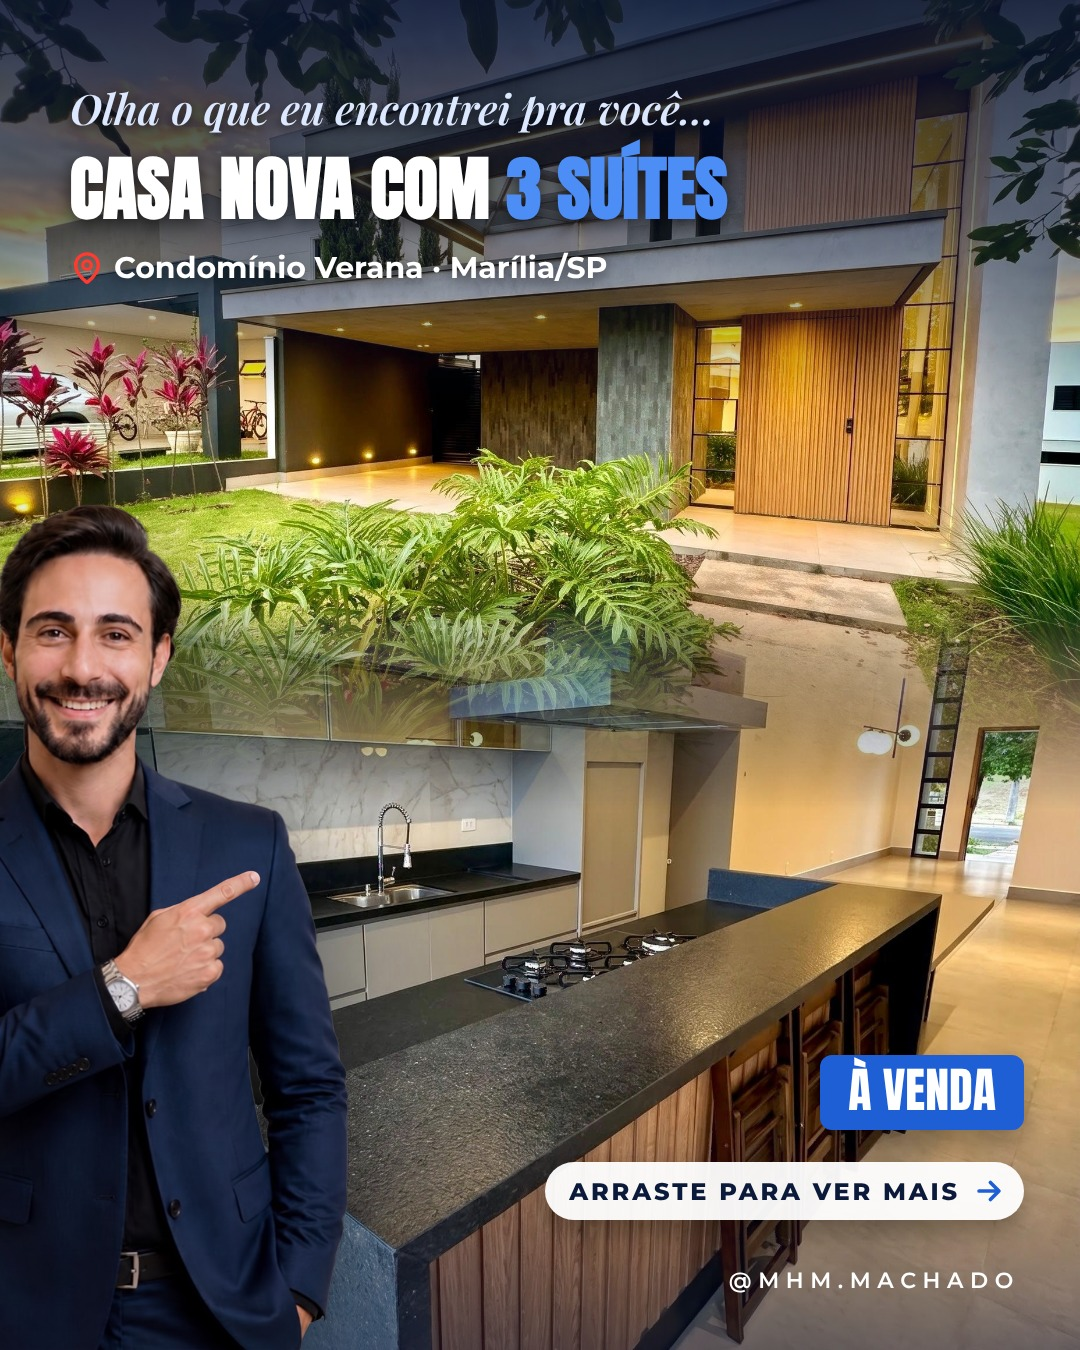
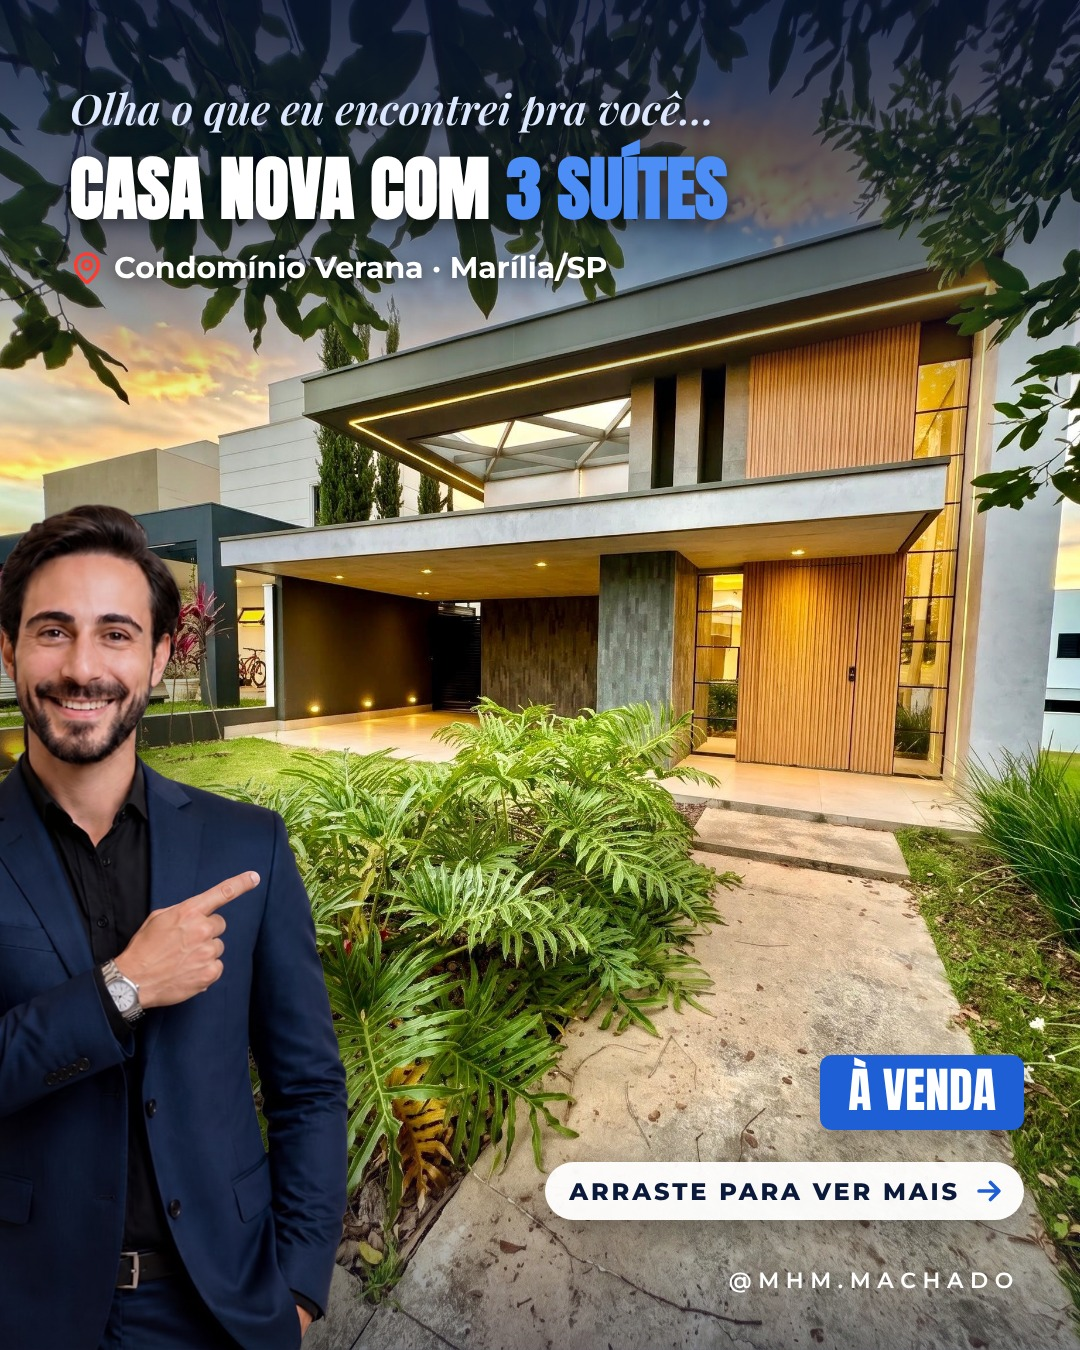
COD4368: capa só com a fachada (pedido do dono)
Claude-Session: https://claude.ai/code/session_014nbP29vyY3VypJGiymd4bb

diff --git a/docs/posicionamento/carrosseis/2026-11-26-verana-casa/laminas.html b/docs/posicionamento/carrosseis/2026-11-26-verana-casa/laminas.html
@@ -20,8 +20,7 @@
 .top .cod{margin-left:6px;padding-left:12px;border-left:1px solid rgba(255,255,255,.4);font-size:16px;letter-spacing:.12em;opacity:.85}
 .hcod{font-size:15px;letter-spacing:.16em;opacity:.75;margin-right:14px}</style></head><body>
 <section class="lamina">
-<img src="tn/c1.jpg" style="position:absolute;left:0;top:0;width:1080px;height:800px;object-fit:cover;object-position:50% 45%;-webkit-mask-image:linear-gradient(180deg,#000 75%,transparent 100%);mask-image:linear-gradient(180deg,#000 75%,transparent 100%)">
-<img src="tn/c2.jpg" style="position:absolute;left:0;top:600px;width:1080px;height:750px;object-fit:cover;object-position:50% 60%;-webkit-mask-image:linear-gradient(0deg,#000 72%,transparent 100%);mask-image:linear-gradient(0deg,#000 72%,transparent 100%)">
+<img src="tn/c1.jpg" style="position:absolute;left:0;top:0;width:1080px;height:1350px;object-fit:cover;object-position:50% 40%">
 <div style="position:absolute;inset:0;background:linear-gradient(180deg,rgba(8,17,46,.88) 0%,rgba(8,17,46,.55) 17%,rgba(8,17,46,0) 30%,rgba(8,17,46,0) 82%,rgba(8,17,46,.5) 100%)"></div>
 <div style="position:absolute;left:70px;right:70px;top:80px;z-index:1">
  <div style="font:600 italic 42px 'Playfair Display';color:#DCE8FF;text-shadow:0 3px 12px rgba(0,0,0,.7)">Olha o que eu encontrei pra você…</div>

diff --git a/docs/posicionamento/carrosseis/2026-11-26-verana-casa/legenda.md b/docs/posicionamento/carrosseis/2026-11-26-verana-casa/legenda.md
@@ -1,6 +1,6 @@
 # Post de imóvel: casa nova no Condomínio Verana (2026-11-26)
 
-Código **COD4368** (só no selo de cima). Capa: fachada em cima + cozinha embaixo; foto do dono com o dedo menor. Carrossel com 10 lâminas; das 15 fotos, 8 entraram (cozinhas repetidas, quarto, closet, banheiro social e lateral ficaram de fora). Fotos já em boa resolução (sem ESRGAN). **Sem valor no post.** Capa do Marketplace: `capa-marketplace.jpg`.
+Código **COD4368** (só no selo de cima). Capa: só a fachada (pedido do dono, 2026-11-26); foto do dono com o dedo menor. Carrossel com 10 lâminas; das 15 fotos, 8 entraram (cozinhas repetidas, quarto, closet, banheiro social e lateral ficaram de fora). Fotos já em boa resolução (sem ESRGAN). **Sem valor no post.** Capa do Marketplace: `capa-marketplace.jpg`.
 
 Dados do dono: casa nova no Condomínio Verana; terreno 250 m² (10 x 25 m); cerca de 150 m² construídos; 3 suítes; sala e cozinha integradas; escritório; lavanderia independente; móveis planejados; projeto luminotécnico; imóvel novo, totalmente planejado, pronto para morar. **Valor não informado.** Contato: corretor parceiro Mateus Queiros (sem telefone).
 
